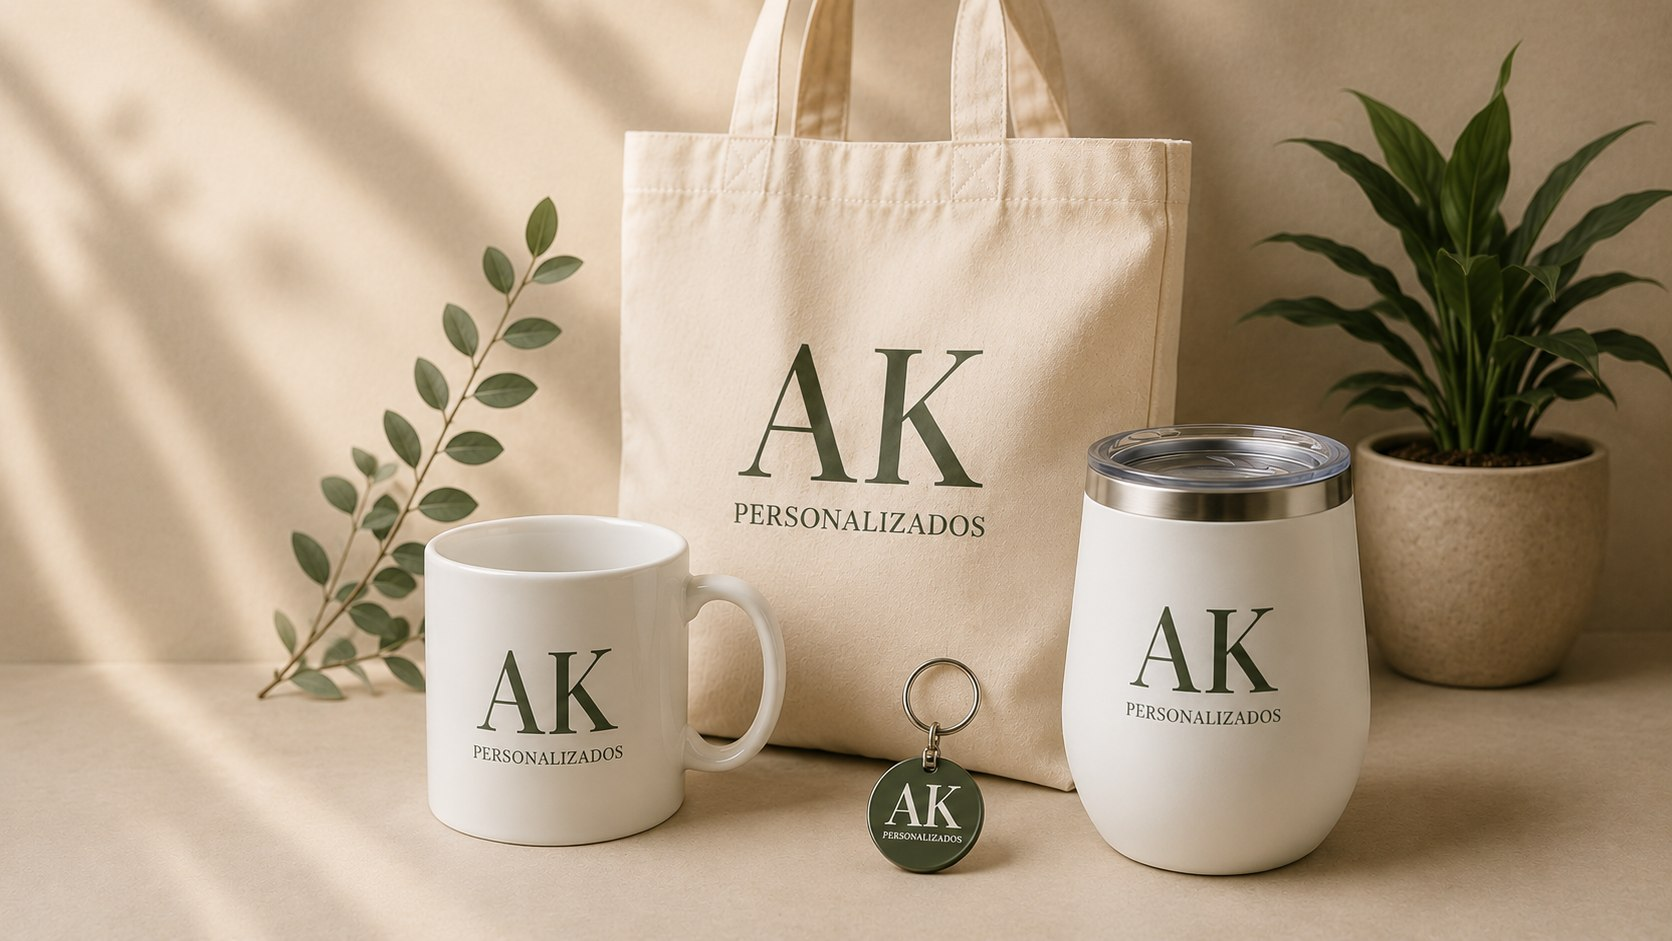
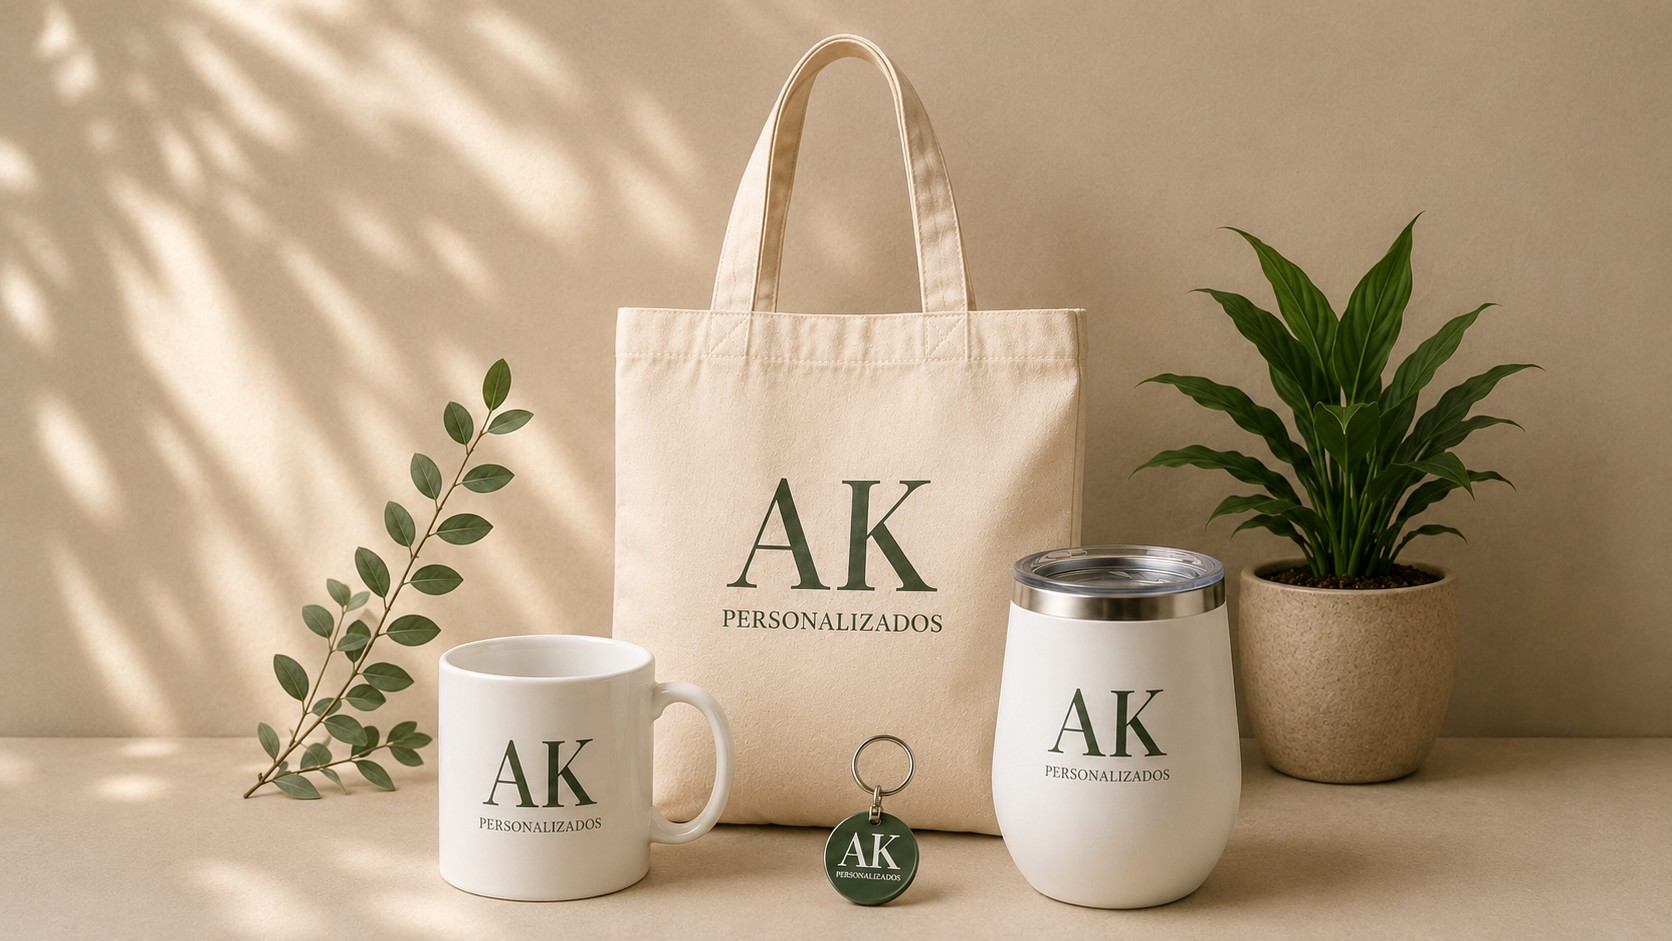
Add files via upload

diff --git a/index.html b/index.html
@@ -33,7 +33,7 @@ section{scroll-margin-top:84px}
 .costura{height:20px;margin:0 auto;max-width:1180px;background-image:repeating-linear-gradient(to right,var(--verde-cl) 0 10px,transparent 10px 20px);background-position:center;background-repeat:repeat-x;background-size:20px 2px;background-position-y:center;opacity:.9}
 
 /* ── NAV ── */
-.nav{position:sticky;top:0;z-index:200;background:#ecd9c8;border-bottom:1px solid var(--creme-d)}
+.nav{position:sticky;top:0;z-index:200;background:#bea58a;border-bottom:1px solid var(--creme-d)}
 .nav-inner{max-width:1180px;margin:0 auto;padding:.85rem 1.6rem;display:flex;align-items:center;gap:1.6rem}
 .nav-brand{display:flex;align-items:center;gap:.65rem;text-decoration:none;flex-shrink:0}
 .nav-logo{width:40px;height:40px;border-radius:50%;overflow:hidden;flex-shrink:0;display:flex;align-items:center;justify-content:center;background:var(--verde)}
@@ -52,7 +52,7 @@ section{scroll-margin-top:84px}
 
 /* ── HERO ── */
 .hero{position:relative;padding:0}
-.hero-inner{display:grid;grid-template-columns:1fr 1fr;align-items:stretch;gap:0;max-width:none;padding:0}
+.hero-inner{display:grid;grid-template-columns:1fr 1fr;align-items:center;gap:0;max-width:none;padding:0}
 .hero-text{padding:3.6rem clamp(1.6rem,4vw,3.2rem) 3.6rem max(1.6rem,calc((100vw - 1180px)/2 + 1.6rem));display:flex;flex-direction:column;justify-content:center}
 .eyebrow{display:inline-flex;align-items:center;gap:.4rem;background:var(--verde-xc);color:var(--verde);font-size:.72rem;font-weight:600;padding:.35rem .8rem;border-radius:20px;margin-bottom:1.3rem;width:fit-content}
 .hero-titulo{font-family:'Playfair Display',serif;font-size:2.9rem;font-weight:700;line-height:1.08;letter-spacing:-1px;color:var(--tx);margin-bottom:1.1rem}
@@ -70,7 +70,7 @@ section{scroll-margin-top:84px}
 .hero-feat span.ic{font-size:1rem}
 
 /* hero illustration — foto realista dos produtos */
-.hero-art{position:relative;overflow:hidden;min-height:560px;margin-right:calc((100vw - min(100vw,1180px))/-2)}
+.hero-art{position:relative;overflow:hidden;aspect-ratio:1672/941;margin-right:calc((100vw - min(100vw,1180px))/-2)}
 .hero-art img{width:100%;height:100%;object-fit:cover;object-position:center top;display:block}
 @media(max-width:940px){
   .hero-inner{grid-template-columns:1fr}
